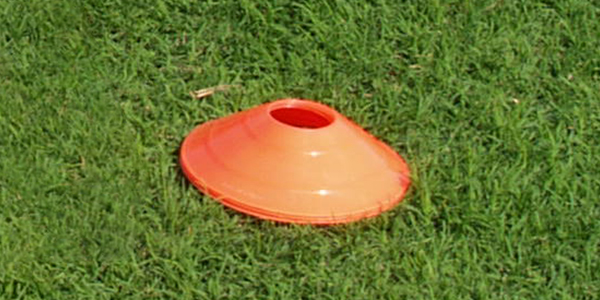
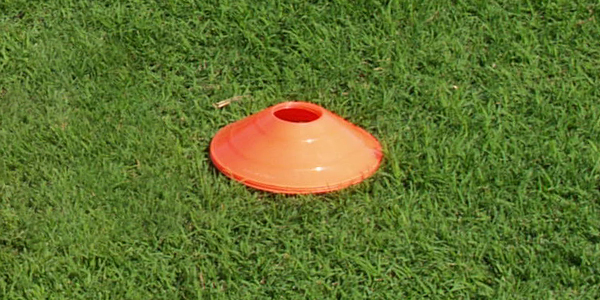
Stength and Conditioning page2 is set up with images.

diff --git a/pages/strength-conditioning-two.html b/pages/strength-conditioning-two.html
@@ -54,6 +54,9 @@
                 <li class="nav-item">
                     <a class="nav-link" href="../pages/contact-us.html">Contact us</a>
                 </li>
+                <li class="nav-item">
+                  <a class="nav-link" href="../pages/rep-locator.html">Rep Locator</a>
+              </li>
               </ul>
           </nav>
 
@@ -82,7 +85,7 @@
         <div class="productCardContainer">
 
         <div class="card productCard" style="width: 24rem;">
-            <img id="cone18Image" src="../assets/images/card_placeholder.jpg" class="card-img-top" alt="Cone 18" data-toggle="modal" data-target=".cone18ImageModal" onclick="cone18Caption()">
+            <img id="cone18Image" src="../assets/images/products/cone18.jpg" class="card-img-top" alt="Cone 18" data-toggle="modal" data-target=".cone18ImageModal" onclick="cone18Caption()">
                 <div class="card-body productCardBody">
                   <h5 class="card-title">Cone 18</h5>
                   <h6 class="card-text">SKU: CONE18</h6>
@@ -103,7 +106,7 @@
         </div>
 
         <div class="card productCard" style="width: 24rem;">
-                <img id="cone28Image" src="../assets/images/card_placeholder.jpg" class="card-img-top" alt="Cone 28" data-toggle="modal" data-target=".cone28ImageModal" onclick="cone28Caption()">
+                <img id="cone28Image" src="../assets/images/products/cone28.jpg" class="card-img-top" alt="Cone 28" data-toggle="modal" data-target=".cone28ImageModal" onclick="cone28Caption()">
                     <div class="card-body productCardBody">
                       <h5 class="card-title">Cone 28</h5>
                       <h6 class="card-text">SKU: CONE28</h6>
@@ -124,7 +127,7 @@
             </div>
 
         <div class="card productCard" style="width: 24rem;">
-                <img id="agscore50Image" src="../assets/images/card_placeholder.jpg" class="card-img-top" alt="S-Core Trainer 50lb" data-toggle="modal" data-target=".agscore50ImageModal" onclick="agscore50Caption()">
+                <img id="agscore50Image" src="../assets/images/products/s-core-trainer-agscore.jpg" class="card-img-top" alt="S-Core Trainer 50lb" data-toggle="modal" data-target=".agscore50ImageModal" onclick="agscore50Caption()">
                     <div class="card-body productCardBody">
                       <h5 class="card-title">S-Core Trainer 50lb</h5>
                       <h6 class="card-text">SKU: AGSCORE50</h6>
@@ -138,14 +141,19 @@
                       </p>
                       <div class="collapse" id="sCoreTrainer50">
                         <div class="card card-body productCardDescription">
-                            Develop an athletes critical core strength. Six handle locations for flexible workouts. Heavy bag simulates the Seal Team log drills on an individual basis. Safe solid rebond foam filled inner core. Dimensions: 48" Length x 14" Diameter. available in Royal, Red, and Black.
+                            Develop an athletes critical core strength. Six handle locations for flexible workouts. Heavy bag simulates the Seal Team log drills on an individual basis. Safe solid rebond foam filled inner core. Dimensions: 48" Length x 14" Diameter. Available in Royal, Red, and Black.<br>
+                            <div id="new-text-color1">
+                              Also available:<br>
+                              AGSCORE75 (75lbs)<br>
+                              AGSCORE100 (100lbs)
+                            </div>
                         </div>
                       </div>
                     </div>
             </div>
 
         <div class="card productCard" style="width: 24rem;">
-                <img id="ps3000padImage" src="../assets/images/card_placeholder.jpg" class="card-img-top" alt="Pull Sled Front Pad" data-toggle="modal" data-target=".ps3000padImageModal" onclick="ps3000padCaption()">
+                <img id="ps3000padImage" src="../assets/images/products/pull-sled-front-pad-ps3000pad.jpg" class="card-img-top" alt="Pull Sled Front Pad" data-toggle="modal" data-target=".ps3000padImageModal" onclick="ps3000padCaption()">
                     <div class="card-body productCardBody">
                       <h5 class="card-title">Pull Sled Front Pad</h5>
                       <h6 class="card-text">SKU: PS3000PAD</h6>
@@ -166,7 +174,7 @@
             </div>
 
             <div class="card productCard" style="width: 24rem;">
-              <img id="har06Image" src="../assets/images/card_placeholder.jpg" class="card-img-top" alt="Econo Harness with Metal Clip" data-toggle="modal" data-target=".har06ImageModal" onclick="har06Caption()">
+              <img id="har06Image" src="../assets/images/products/econo-harness-with-metal-clip-har06.jpg" class="card-img-top" alt="Econo Harness with Metal Clip" data-toggle="modal" data-target=".har06ImageModal" onclick="har06Caption()">
                   <div class="card-body productCardBody">
                     <h5 class="card-title">Econo Harness with Metal Clip</h5>
                     <h6 class="card-text">SKU: HAR06</h6>
@@ -187,7 +195,7 @@
           </div>
   
           <div class="card productCard" style="width: 24rem;">
-                  <img id="har05Image" src="../assets/images/card_placeholder.jpg" class="card-img-top" alt="Single Sled to Harness Connector" data-toggle="modal" data-target=".har05ImageModal" onclick="har05Caption()">
+                  <img id="har05Image" src="../assets/images/products/single-sled-to-harness-connector-har05.jpg" class="card-img-top" alt="Single Sled to Harness Connector" data-toggle="modal" data-target=".har05ImageModal" onclick="har05Caption()">
                       <div class="card-body productCardBody">
                         <h5 class="card-title">Single Sled to Harness Connector</h5>
                         <h6 class="card-text">SKU: HAR05</h6>
@@ -208,7 +216,7 @@
               </div>
   
           <div class="card productCard" style="width: 24rem;">
-                  <img id="har04Image" src="../assets/images/card_placeholder.jpg" class="card-img-top" alt="Double Sled to Harness Connector" data-toggle="modal" data-target=".har04ImageModal" onclick="har04Caption()">
+                  <img id="har04Image" src="../assets/images/products/double-sled-to-harness-connector-har04.jpg" class="card-img-top" alt="Double Sled to Harness Connector" data-toggle="modal" data-target=".har04ImageModal" onclick="har04Caption()">
                       <div class="card-body productCardBody">
                           <h5 class="card-title">Double Sled to Harness Connector</h5>
                           <h6 class="card-text">SKU: HAR04</h6>
@@ -229,7 +237,7 @@
               </div>
   
           <div class="card productCard" style="width: 24rem;">
-                  <img id="har02Image" src="../assets/images/card_placeholder.jpg" class="card-img-top" alt="Pull Handle 14' Long" data-toggle="modal" data-target=".har02ImageModal" onclick="har02Caption()">
+                  <img id="har02Image" src="../assets/images/products/pull-handle-14long-har02.jpg" class="card-img-top" alt="Pull Handle 14' Long" data-toggle="modal" data-target=".har02ImageModal" onclick="har02Caption()">
                       <div class="card-body productCardBody">
                           <h5 class="card-title">Pull Handle 14' Long</h5>
                           <h6 class="card-text">SKU: HAR02</h6>
@@ -250,7 +258,7 @@
               </div>
 
               <div class="card productCard" style="width: 24rem;">
-                <img id="har01Image" src="../assets/images/card_placeholder.jpg" class="card-img-top" alt="Harness with Metal Clip" data-toggle="modal" data-target=".har01ImageModal" onclick="har01Caption()">
+                <img id="har01Image" src="../assets/images/products/harness-with-metal-clip-har01.jpg" class="card-img-top" alt="Harness with Metal Clip" data-toggle="modal" data-target=".har01ImageModal" onclick="har01Caption()">
                     <div class="card-body productCardBody">
                         <h5 class="card-title">Harness with Metal Clip</h5>
                         <h6 class="card-text">SKU: HAR01</h6>
@@ -271,9 +279,9 @@
             </div>
     
             <div class="card productCard" style="width: 24rem;">
-                    <img id="ps3000Image" src="../assets/images/card_placeholder.jpg" class="card-img-top" alt="Pull Sled" data-toggle="modal" data-target=".ps3000ImageModal" onclick="ps3000Caption()">
+                    <img id="ps3000Image" src="../assets/images/products/push-pull-sled-ps3000.jpg" class="card-img-top" alt="Push-Pull Sled" data-toggle="modal" data-target=".ps3000ImageModal" onclick="ps3000Caption()">
                         <div class="card-body productCardBody">
-                            <h5 class="card-title">Pull Sled</h5>
+                            <h5 class="card-title">Push-Pull Sled</h5>
                             <h6 class="card-text">SKU: PS3000</h6>
                             <p>
                               <a class="btn btn-danger" data-toggle="collapse" href="#pullSled3000" role="button" aria-expanded="false" aria-controls="collapseExample">
@@ -292,9 +300,9 @@
                 </div>
     
             <div class="card productCard" style="width: 24rem;">
-                    <img id="ps2500Image" src="../assets/images/card_placeholder.jpg" class="card-img-top" alt="Small Pull Sled" data-toggle="modal" data-target=".ps2500ImageModal" onclick="ps2500Caption()">
+                    <img id="ps2500Image" src="../assets/images/products/push-pull-sled-ps2500.jpg" class="card-img-top" alt="Small Push-Pull Sled" data-toggle="modal" data-target=".ps2500ImageModal" onclick="ps2500Caption()">
                         <div class="card-body productCardBody">
-                            <h5 class="card-title">Small Pull Sled</h5>
+                            <h5 class="card-title">Small Push-Pull Sled</h5>
                             <h6 class="card-text">SKU: PS2500</h6>
                             <p>
                               <a class="btn btn-danger" data-toggle="collapse" href="#smallPullSled" role="button" aria-expanded="false" aria-controls="collapseExample">
@@ -313,9 +321,9 @@
                 </div>
     
             <div class="card productCard" style="width: 24rem;">
-                    <img id="ps1500Image" src="../assets/images/card_placeholder.jpg" class="card-img-top" alt="Mini Pull Sled" data-toggle="modal" data-target=".ps1500ImageModal" onclick="ps1500Caption()">
+                    <img id="ps1500Image" src="../assets/images/products/push-pull-sled-ps1500.jpg" class="card-img-top" alt="Mini Push-Pull Sled" data-toggle="modal" data-target=".ps1500ImageModal" onclick="ps1500Caption()">
                         <div class="card-body productCardBody">
-                            <h5 class="card-title">Mini Pull Sled</h5>
+                            <h5 class="card-title">Mini Push-Pull Sled</h5>
                             <h6 class="card-text">SKU: PS1500</h6>
                             <p>
                               <a class="btn btn-danger" data-toggle="collapse" href="#miniPullSled" role="button" aria-expanded="false" aria-controls="collapseExample">
@@ -479,84 +487,84 @@
     <!-- Image Modals -->
     <div class="modal fade imageModal cone18ImageModal" tabindex="-1" role="dialog" aria-labelledby="myExtraLargeModalLabel" aria-hidden="true">
         <div class="modal-dialog modal-xl modalExpandImageBody">
-              <img id="cone18Image" src="../assets/images/card_placeholder.jpg">
+              <img id="cone18Image" src="../assets/images/products/cone18.jpg">
               <div id="cone18Caption" class="imageModalCaption"></div>
             </div>
       </div>
     
     <div class="modal fade imageModal cone28ImageModal" tabindex="-1" role="dialog" aria-labelledby="myExtraLargeModalLabel" aria-hidden="true">
         <div class="modal-dialog modal-xl modalExpandImageBody">
-              <img id="cone28Image" src="../assets/images/card_placeholder.jpg">
+              <img id="cone28Image" src="../assets/images/products/cone28.jpg">
               <div id="cone28Caption" class="imageModalCaption"></div>
             </div>
       </div>
 
     <div class="modal fade imageModal agscore50ImageModal" tabindex="-1" role="dialog" aria-labelledby="myExtraLargeModalLabel" aria-hidden="true">
         <div class="modal-dialog modal-xl modalExpandImageBody">
-              <img id="agscore50Image" src="../assets/images/card_placeholder.jpg">
+              <img id="agscore50Image" src="../assets/images/products/s-core-trainer-agscore.jpg">
               <div id="agscore50Caption" class="imageModalCaption"></div>
             </div>
       </div>
 
     <div class="modal fade imageModal ps3000padImageModal" tabindex="-1" role="dialog" aria-labelledby="myExtraLargeModalLabel" aria-hidden="true">
         <div class="modal-dialog modal-xl modalExpandImageBody">
-              <img id="ps3000padImage" src="../assets/images/card_placeholder.jpg">
+              <img id="ps3000padImage" src="../assets/images/products/pull-sled-front-pad-ps3000pad.jpg">
               <div id="ps3000padCaption" class="imageModalCaption"></div>
             </div>
       </div>
 
     <div class="modal fade imageModal har06ImageModal" tabindex="-1" role="dialog" aria-labelledby="myExtraLargeModalLabel" aria-hidden="true">
         <div class="modal-dialog modal-xl modalExpandImageBody">
-              <img id="har06Image" src="../assets/images/card_placeholder.jpg">
+              <img id="har06Image" src="../assets/images/products/econo-harness-with-metal-clip-har06.jpg">
               <div id="har06Caption" class="imageModalCaption"></div>
             </div>
       </div>
 
     <div class="modal fade imageModal har05ImageModal" tabindex="-1" role="dialog" aria-labelledby="myExtraLargeModalLabel" aria-hidden="true">
         <div class="modal-dialog modal-xl modalExpandImageBody">
-              <img id="har05Image" src="../assets/images/card_placeholder.jpg">
+              <img id="har05Image" src="../assets/images/products/single-sled-to-harness-connector-har05.jpg">
               <div id="har05Caption" class="imageModalCaption"></div>
             </div>
       </div>
 
     <div class="modal fade imageModal har04ImageModal" tabindex="-1" role="dialog" aria-labelledby="myExtraLargeModalLabel" aria-hidden="true">
         <div class="modal-dialog modal-xl modalExpandImageBody">
-              <img id="har04Image" src="../assets/images/card_placeholder.jpg">
+              <img id="har04Image" src="../assets/images/products/double-sled-to-harness-connector-har04.jpg">
               <div id="har04Caption" class="imageModalCaption"></div>
             </div>
       </div>
 
     <div class="modal fade imageModal har02ImageModal" tabindex="-1" role="dialog" aria-labelledby="myExtraLargeModalLabel" aria-hidden="true">
         <div class="modal-dialog modal-xl modalExpandImageBody">
-              <img id="har02Image" src="../assets/images/card_placeholder.jpg">
+              <img id="har02Image" src="../assets/images/products/pull-handle-14long-har02.jpg">
               <div id="har02Caption" class="imageModalCaption"></div>
             </div>
       </div>
 
     <div class="modal fade imageModal har01ImageModal" tabindex="-1" role="dialog" aria-labelledby="myExtraLargeModalLabel" aria-hidden="true">
         <div class="modal-dialog modal-xl modalExpandImageBody">
-              <img id="har01Image" src="../assets/images/card_placeholder.jpg">
+              <img id="har01Image" src="../assets/images/products/harness-with-metal-clip-har01.jpg">
               <div id="har01Caption" class="imageModalCaption"></div>
             </div>
       </div>
 
     <div class="modal fade imageModal ps3000ImageModal" tabindex="-1" role="dialog" aria-labelledby="myExtraLargeModalLabel" aria-hidden="true">
         <div class="modal-dialog modal-xl modalExpandImageBody">
-              <img id="ps3000Image" src="../assets/images/card_placeholder.jpg">
+              <img id="ps3000Image" src="../assets/images/products/push-pull-sled-ps3000.jpg">
               <div id="ps3000Caption" class="imageModalCaption"></div>
             </div>
       </div>
 
     <div class="modal fade imageModal ps2500ImageModal" tabindex="-1" role="dialog" aria-labelledby="myExtraLargeModalLabel" aria-hidden="true">
         <div class="modal-dialog modal-xl modalExpandImageBody">
-              <img id="ps2500Image" src="../assets/images/card_placeholder.jpg">
+              <img id="ps2500Image" src="../assets/images/products/push-pull-sled-ps2500.jpg">
               <div id="ps2500Caption" class="imageModalCaption"></div>
             </div>
       </div>
 
     <div class="modal fade imageModal ps1500ImageModal" tabindex="-1" role="dialog" aria-labelledby="myExtraLargeModalLabel" aria-hidden="true">
         <div class="modal-dialog modal-xl modalExpandImageBody">
-              <img id="ps1500Image" src="../assets/images/card_placeholder.jpg">
+              <img id="ps1500Image" src="../assets/images/products/push-pull-sled-ps1500.jpg">
               <div id="ps1500Caption" class="imageModalCaption"></div>
             </div>
       </div>
